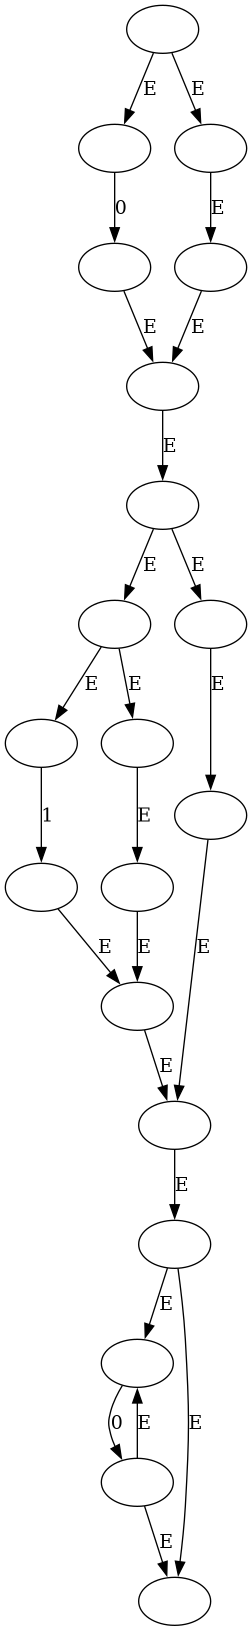
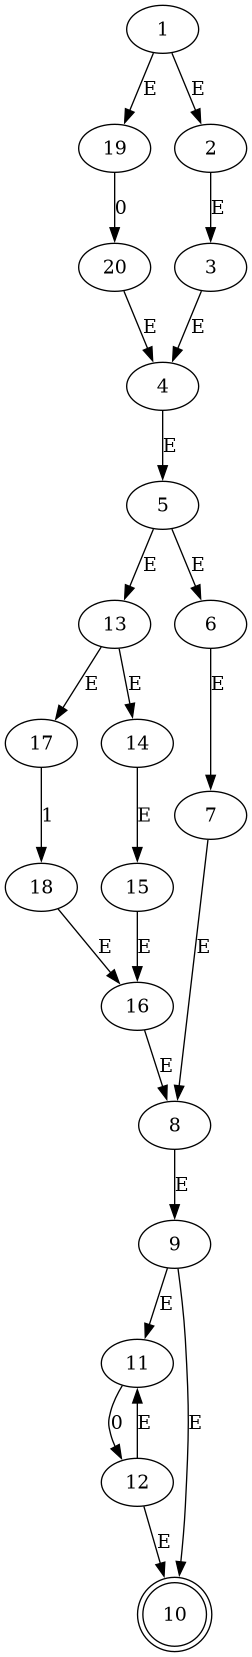
quick fixed to rendering format

diff --git a/src/drawing/nfa.py b/src/drawing/nfa.py
@@ -1,11 +1,17 @@
 from graphviz import Digraph
 from parsing.nfa import NFA
 
-def add_state(nfa_render, visited, state, state_id):
+def add_state(nfa_render, visited, state, state_id, state_idx):
     if state not in visited:
         visited.add(state) # we add the state for not checking it again, in any case a klean operator does bad stuff
-        nfa_render.node(state_id, label=str()) # puttin the emtpy string for it to not have a label 
+
+        # cause it is an imperative way of doing it, the state will be filled from the right states to the left ones
+        if state.edge1 is None and state.edge2 is None:
+            nfa_render.node(state_id, label=str(state_idx), shape="doublecircle")  # the double circle for the notation that bidkar uses
+        else:
+            nfa_render.node(state_id, label=str(state_idx))# puttin the emtpy string for it to not have a label
         
+
         if state.edge1: # Checking for existance
             nfa_render.edge(state_id, str(id(state.edge1)), label=state.label if state.label else "E") # the one and only, friendly utf-8 epsilon
         if state.edge2: # Checking for existance
@@ -15,15 +21,24 @@ def add_state(nfa_render, visited, state, state_id):
 
 # given our NFA, retunrs a graph for graphviz to parse it
 def nfaToDiGraph(nfa: NFA):
+
     nfa_render:Digraph = Digraph() # where we render the things
+
     visited:set = set()
+
+    state_idx:int = 0 # having the count of the state
+
 
     # we push to the stack the initial point of the nfa, and we start pushing to the stack all the subsecuent ones
     stack = [(nfa.initial, str(id(nfa.initial)))]
 
+
     while stack:
         state, state_id = stack.pop()
-        add_state(nfa_render, visited,state, state_id)
+
+        state_idx += 1 
+        
+        add_state(nfa_render, visited,state, state_id, state_idx)
 
         # we put both edges (with there respective state obviosly) for being check
         if state.edge1 and state.edge1 not in visited:
